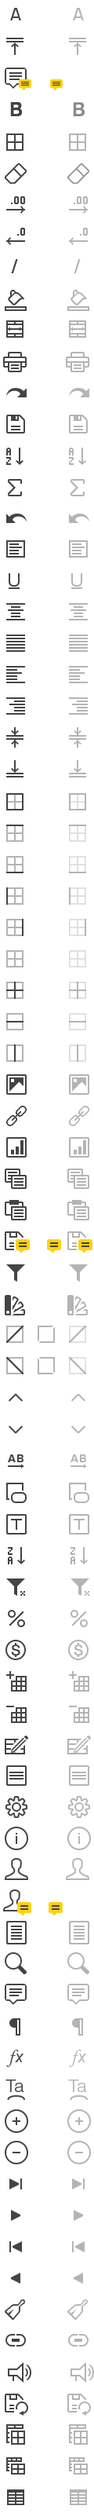
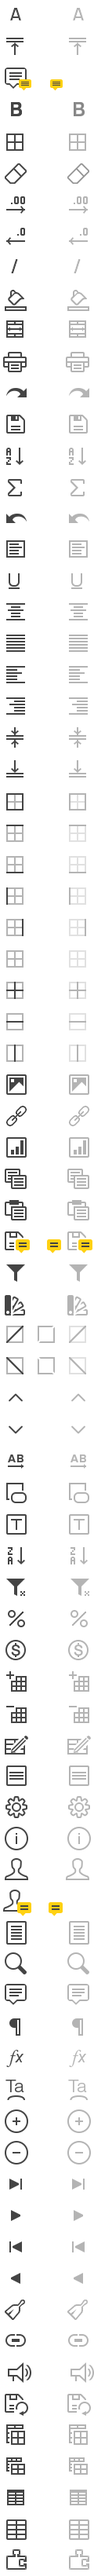
[SSE] Update plugins.

diff --git a/apps/spreadsheeteditor/main/app/controller/LeftMenu.js b/apps/spreadsheeteditor/main/app/controller/LeftMenu.js
@@ -614,15 +614,15 @@ define([
                         $.fn.dropdown.Constructor.prototype.keydown.call(menu_opened[0], e);
                         return false;
                     }
-                    if (this.mode.canPlugins && this.leftMenu.panelPlugins) {
+                    if (this.mode.canPlugins && this.leftMenu.panelPlugins && this.api.isCellEdited!==true) {
                         menu_opened = this.leftMenu.panelPlugins.$el.find('#menu-plugin-container.open > [data-toggle="dropdown"]');
                         if (menu_opened.length) {
                             $.fn.dropdown.Constructor.prototype.keydown.call(menu_opened[0], e);
                             return false;
                         }
                     }
-                    if (this.leftMenu.btnFile.pressed ||  this.leftMenu.btnAbout.pressed || this.leftMenu.btnPlugins.pressed ||
-                        $(e.target).parents('#left-menu').length && this.api.isCellEdited!==true) {
+                    if (this.leftMenu.btnFile.pressed ||  this.leftMenu.btnAbout.pressed ||
+                        ($(e.target).parents('#left-menu').length || this.leftMenu.btnPlugins.pressed) && this.api.isCellEdited!==true) {
                         this.leftMenu.close();
                         Common.NotificationCenter.trigger('layout:changed', 'leftmenu');
                         return false;

diff --git a/apps/spreadsheeteditor/main/resources/less/leftmenu.less b/apps/spreadsheeteditor/main/resources/less/leftmenu.less
@@ -14,7 +14,7 @@
             .toolbar-btn-icon(btn-menu-chat,        59, @toolbar-icon-size);
             .toolbar-btn-icon(btn-menu-about,       58, @toolbar-icon-size);
             .toolbar-btn-icon(btn-menu-support,     75, @toolbar-icon-size);
-            .toolbar-btn-icon(btn-menu-plugin,      75, @toolbar-icon-size);
+            .toolbar-btn-icon(btn-menu-plugin,      81, @toolbar-icon-size);
 
             button.notify .btn-menu-chat,
             button.notify.over > .btn-menu-chat {background-position: -0*@toolbar-icon-size -60*@toolbar-icon-size;}
